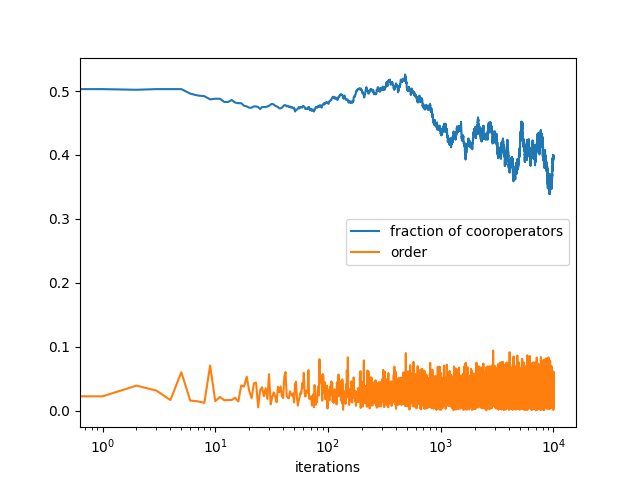
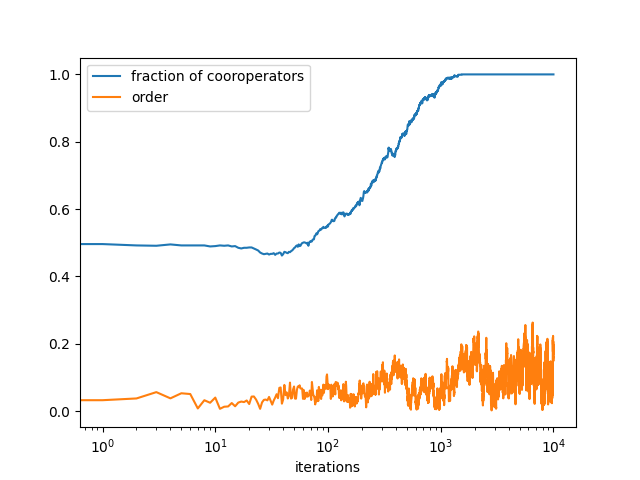
eta was wrong

diff --git a/replicating_results/main.py b/replicating_results/main.py
@@ -11,7 +11,7 @@ def Run(r,name):
    N = int(rho*L**2 )
    v_0=0.1
    iterations = 10000
-   eta = 11
+   eta=0.5
    alpha=1
    beta=1
    
